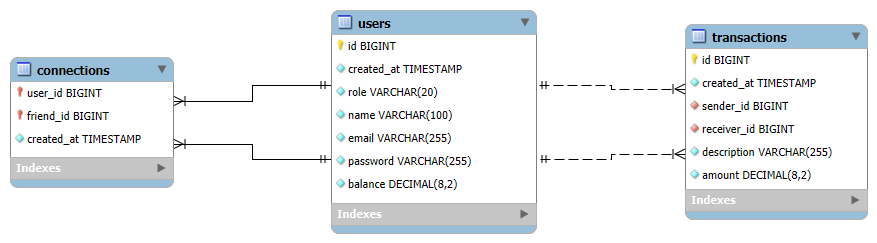
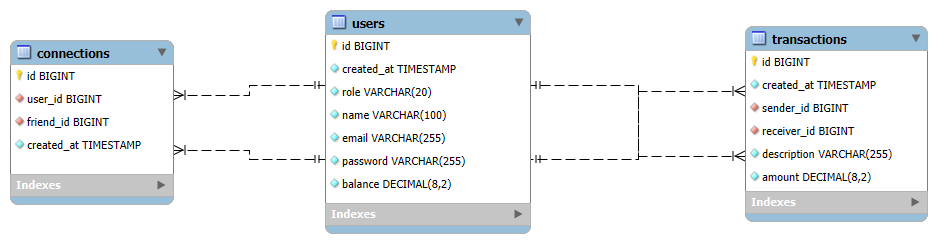
Backend Connection + integration test + miscellaneous see details
- revision of the MPD: removal of the Connection composite key / addition of a primary id key instead.
- various settings for Hibernate.
- integration test on a database test (pay_my_buddy_test)

diff --git a/src/test/java/com/cordierlaurent/paymybuddy/service/ConnectionServiceIT.java b/src/test/java/com/cordierlaurent/paymybuddy/service/ConnectionServiceIT.java
@@ -1,0 +1,130 @@
+package com.cordierlaurent.paymybuddy.service;
+
+import org.junit.jupiter.api.TestMethodOrder;
+
+import static org.assertj.core.api.Assertions.assertThat;
+
+import java.util.List;
+
+import org.junit.jupiter.api.BeforeAll;
+import org.junit.jupiter.api.MethodOrderer.OrderAnnotation;
+import org.junit.jupiter.api.Order;
+import org.junit.jupiter.api.Test;
+import org.junit.jupiter.api.TestInstance;
+import org.springframework.beans.factory.annotation.Autowired;
+import org.springframework.boot.test.autoconfigure.jdbc.AutoConfigureTestDatabase;
+import org.springframework.boot.test.context.SpringBootTest;
+import org.springframework.test.context.ActiveProfiles;
+
+import com.cordierlaurent.paymybuddy.model.Connection;
+import com.cordierlaurent.paymybuddy.model.User;
+import com.cordierlaurent.paymybuddy.repository.ConnectionRepository;
+import com.cordierlaurent.paymybuddy.repository.UserRepository;
+import com.cordierlaurent.paymybuddy.util.Result;
+
+import lombok.extern.log4j.Log4j2;
+
+
+@SpringBootTest
+//Permet de charger automatiquement application-test.properties.
+@ActiveProfiles("test") 
+// Empêche Spring de forcer H2.
+@AutoConfigureTestDatabase(replace = AutoConfigureTestDatabase.Replace.NONE)
+/*
+JUnit crée une seule instance de la classe de test pour toutes les méthodes de test.
+@BeforeAll et @AfterAll n'ont plus besoin d'être static !!!
+*/
+@TestInstance(TestInstance.Lifecycle.PER_CLASS)
+@TestMethodOrder(OrderAnnotation.class)
+@Log4j2
+public class ConnectionServiceIT {
+    @Autowired
+    private ConnectionService connectionService;
+
+    @Autowired
+    private ConnectionRepository connectionRepository;
+
+    @Autowired
+    private UserRepository userRepository;
+    
+    @Autowired
+    private UserService userService;
+
+    private User user;
+    private User friend;
+    private User other;
+    
+    private User createUser(String name, String email, String password) {
+        User userToCreate = new User(name, email, password);
+        userService.add(userToCreate);
+        // pour récupérer le user (avec son id autoincrémenté).
+        return userRepository.findByEmail(userToCreate.getEmail()).orElseThrow();
+    }
+    
+    @BeforeAll
+    void setUp() {
+        connectionRepository.deleteAll();
+        userRepository.deleteAll(); 
+
+        user = createUser("User", "user@test.com", "User");
+        log.debug("user="+user);
+        friend = createUser("Friend", "friend@test.com", "Friend");
+        log.debug("friend="+friend);
+        other = createUser("Other", "other@test.com", "Other");
+        log.debug("other="+friend);
+    }
+    
+    @Test
+    @Order(1)
+    void addYourselfTest() {
+        // when
+        Result result = connectionService.add(user, user);
+        log.debug("addYourselfTest,result="+result);
+        
+        // then
+        assertThat(result.isSuccess()).isFalse();
+    }
+    @Test
+    @Order(2)
+    void addSuccessTest() {
+        // when
+        Result result = connectionService.add(user, friend);
+        log.debug("addSuccessTest,result="+result);
+
+        // then
+        assertThat(result.isSuccess()).isTrue();
+        assertThat(connectionRepository.existsByUserIdAndFriendId(user.getId(), friend.getId())).isTrue();
+    }
+    
+    @Test
+    @Order(3)
+    void addDuplicateFailTest() {
+        // When
+        Result result = connectionService.add(user, friend);
+        log.debug("addDuplicateFailTest,result="+result);
+
+        // THEN
+        assertThat(result.isSuccess()).isFalse();
+    }
+    
+    @Test
+    @Order(4)
+    void getConnectionsTest() {
+        // given.
+        // on ajoute la relation inverse (qui ne doit pas compter).
+        connectionService.add(friend, user);
+        // puis une autre avec un 2 ème utilisateur.
+        connectionService.add(user, other);
+
+        // when
+        List<Connection> connections = connectionService.getConnections(user.getId());
+        log.debug("'getConnectionsTest="+connections);
+
+        // then
+        assertThat(connections).isNotEmpty();
+        assertThat(connections).hasSize(2);
+        assertThat(connections.get(0).getFriendId()).isEqualTo(friend.getId());
+        assertThat(connections.get(1).getFriendId()).isEqualTo(other.getId());
+    }
+    
+}

diff --git a/src/main/java/com/cordierlaurent/paymybuddy/model/Connection.java b/src/main/java/com/cordierlaurent/paymybuddy/model/Connection.java
@@ -1,6 +1,5 @@
 package com.cordierlaurent.paymybuddy.model;
 
-import java.math.BigDecimal;
 import java.sql.Timestamp;
 
 import jakarta.persistence.Column;
@@ -23,28 +22,26 @@ Non utilisation de @Data car génère equals() et hashCode(), ce qui peut être 
     @Getter + @Setter + @NoArgsConstructor + @AllArgsConstructor
 */
 @Entity
-@Table(name = "users")
+@Table(name = "connections")
 @Getter
 @Setter
 @NoArgsConstructor
 @AllArgsConstructor
-// important pour afficher le contenu des objets simplement avec log4j2.
+//important pour afficher le contenu des objets simplement avec log4j2.
 @ToString
-public class User {
-    
-    // contructeur utilisé pour les tests d'intégration.s
-    public User(String name, String email, String password) {
-        this.name = name;
-        this.email = email;
-        this.password = password;
-    }
-
+public class Connection {
     // Indique que id est la clé primaire.
     @Id
     // Indique que la valeur de la clé primaire est générée automatiquement par la base de données, en utilisant une auto-incrémentation.
     @GeneratedValue(strategy = GenerationType.IDENTITY)
     private Long id;
 
+    @Column(name = "user_id", nullable = false)
+    private Long userId;  
+
+    @Column(name = "friend_id", nullable = false)
+    private Long friendId; 
+    
     /*
     la base de données gère le timestamp => indiqué dans le schema :
     insertable = false => exclut la colonne lors d'une insertion.
@@ -53,19 +50,4 @@ public class User {
     @Column(nullable = false, insertable = false, updatable = false)
     private Timestamp createdAt;
 
-    @Column(nullable = false, length = 20)
-    private String role = "USER"; 
-
-    @Column(nullable = false, length = 100)
-    private String name;
-
-    // unique = true garantit qu’aucun utilisateur ne peut avoir le même email.
-    @Column(nullable = false, unique = true, length = 255)
-    private String email;
-
-    @Column(nullable = false, length = 255)
-    private String password;
-
-    @Column(nullable = false, precision = 8, scale = 2)
-    private BigDecimal balance = BigDecimal.ZERO; 
 }

diff --git a/src/main/java/com/cordierlaurent/paymybuddy/service/ConnectionService.java b/src/main/java/com/cordierlaurent/paymybuddy/service/ConnectionService.java
@@ -1,0 +1,56 @@
+package com.cordierlaurent.paymybuddy.service;
+
+import java.util.List;
+
+import org.springframework.beans.factory.annotation.Autowired;
+import org.springframework.stereotype.Service;
+
+import com.cordierlaurent.paymybuddy.model.Connection;
+import com.cordierlaurent.paymybuddy.model.User;
+import com.cordierlaurent.paymybuddy.repository.ConnectionRepository;
+import com.cordierlaurent.paymybuddy.util.Result;
+
+import lombok.extern.log4j.Log4j2;
+
+@Service
+@Log4j2
+public class ConnectionService {
+
+    @Autowired
+    private ConnectionRepository connectionRepository;
+    
+    public Result add(User user, User friend) {
+        if (user == null || friend == null) {
+            throw new IllegalArgumentException("invalid argument");
+        }        
+        
+        log.debug("ConnectionService.add,userId="+user.getId()+",friendId="+friend.getId());
+        if (user.getId().equals(friend.getId())) {
+            return new Result(false, "You cannot add yourself"); 
+        }
+
+        if (connectionRepository.existsByUserIdAndFriendId(user.getId(), friend.getId())) {
+            return new Result(false, "You have already added this user");
+        }
+
+        Connection connection = new Connection();
+        connection.setUserId(user.getId());
+        connection.setFriendId(friend.getId());
+        connectionRepository.save(connection);
+
+        // optionnel : ajout de la relation inverse (friend vers user)
+        /*
+        Connection reverseConnection = new Connection();
+        connection.setUserId(friend.getId());
+        connection.setFriendId(user.getId());
+        connectionRepository.save(reverseConnection);
+        */
+
+        return new Result(true,"The user has been added");
+    }
+    
+    public List<Connection> getConnections(Long userId) {
+        return connectionRepository.findByUserId(userId);
+    }
+    
+}

diff --git a/src/test/java/com/cordierlaurent/paymybuddy/service/UserServiceIT.java b/src/test/java/com/cordierlaurent/paymybuddy/service/UserServiceIT.java
@@ -1,9 +1,6 @@
 package com.cordierlaurent.paymybuddy.service;
 
 import static org.assertj.core.api.Assertions.assertThat;
-import static org.junit.jupiter.api.Assertions.assertFalse;
-import static org.junit.jupiter.api.Assertions.assertNotNull;
-import static org.junit.jupiter.api.Assertions.assertTrue;
 
 import java.util.List;
 import java.util.Optional;
@@ -15,7 +12,6 @@ import org.junit.jupiter.api.Test;
 import org.junit.jupiter.api.TestMethodOrder;
 import org.springframework.beans.factory.annotation.Autowired;
 import org.springframework.boot.test.context.SpringBootTest;
-import org.springframework.context.ApplicationContext;
 import org.springframework.security.crypto.bcrypt.BCryptPasswordEncoder;
 
 import com.cordierlaurent.paymybuddy.model.User;
@@ -55,13 +51,10 @@ public class UserServiceIT {
     @Order(1)
     void registerUserSuccessTest() {
         // given
-        userTest = new User();
-        userTest.setName("John");
-        userTest.setEmail("john@test.com");
-        userTest.setPassword("John");
+        userTest = new User("John", "john@test.com", "John");
 
         // when
-        boolean isRegistered = userService.register(userTest);
+        boolean isRegistered = userService.add(userTest);
         
         // then
         assertThat(isRegistered).isTrue();

diff --git a/src/main/java/com/cordierlaurent/paymybuddy/repository/ConnectionRepository.java b/src/main/java/com/cordierlaurent/paymybuddy/repository/ConnectionRepository.java
@@ -1,0 +1,27 @@
+package com.cordierlaurent.paymybuddy.repository;
+
+import java.util.List;
+
+import org.springframework.data.jpa.repository.JpaRepository;
+
+import com.cordierlaurent.paymybuddy.model.Connection;
+
+/*
+Pas besoin de @Repository sur une interface JpaRepository
+Spring le détecte automatiquement et crée un bean sans configuration supplémentaire.
+*/
+//@Repository
+//C'est un DAO (Data Access Object) qui permet de récupérer les utilisateurs en base de données
+public interface ConnectionRepository extends JpaRepository<Connection, Long> { 
+    /*
+    Méthodes utilisées déjà fournies par JpaRepository :    
+        findById(Long id)
+        existsById(Long id)
+        save(T entity)
+        deleteById(Long id);
+    */
+    // Spring Data génère automatiquement la requête : SELECT COUNT(*) FROM connections WHERE user_id = ? AND friend_id = ? et vérifie COUNT => false/true
+    boolean existsByUserIdAndFriendId(Long userId, Long friendId);
+    // Spring Data génère automatiquement la requête : SELECT * FROM connections WHERE user_id =
+    List<Connection> findByUserId(Long userId);
+}

diff --git a/src/main/java/com/cordierlaurent/paymybuddy/util/Result.java b/src/main/java/com/cordierlaurent/paymybuddy/util/Result.java
@@ -1,0 +1,22 @@
+package com.cordierlaurent.paymybuddy.util;
+
+import lombok.ToString;
+
+@ToString
+public class Result {
+    private boolean success;
+    private String message;
+
+    public Result(boolean success, String message) {
+        this.success = success;
+        this.message = message;
+    }
+    
+    public boolean isSuccess() {
+        return success;
+    }
+
+    public String getMessage() {
+        return message;
+    }
+}

diff --git a/src/main/java/com/cordierlaurent/paymybuddy/service/UserService.java b/src/main/java/com/cordierlaurent/paymybuddy/service/UserService.java
@@ -19,7 +19,7 @@ public class UserService {
     @Autowired
     private BCryptPasswordEncoder passwordEncoder;
 
-    public boolean register(User user) {
+    public boolean add(User user) {
         if (userRepository.findByEmail(user.getEmail()).isPresent()) {
             return false; // this email exists.
         }
